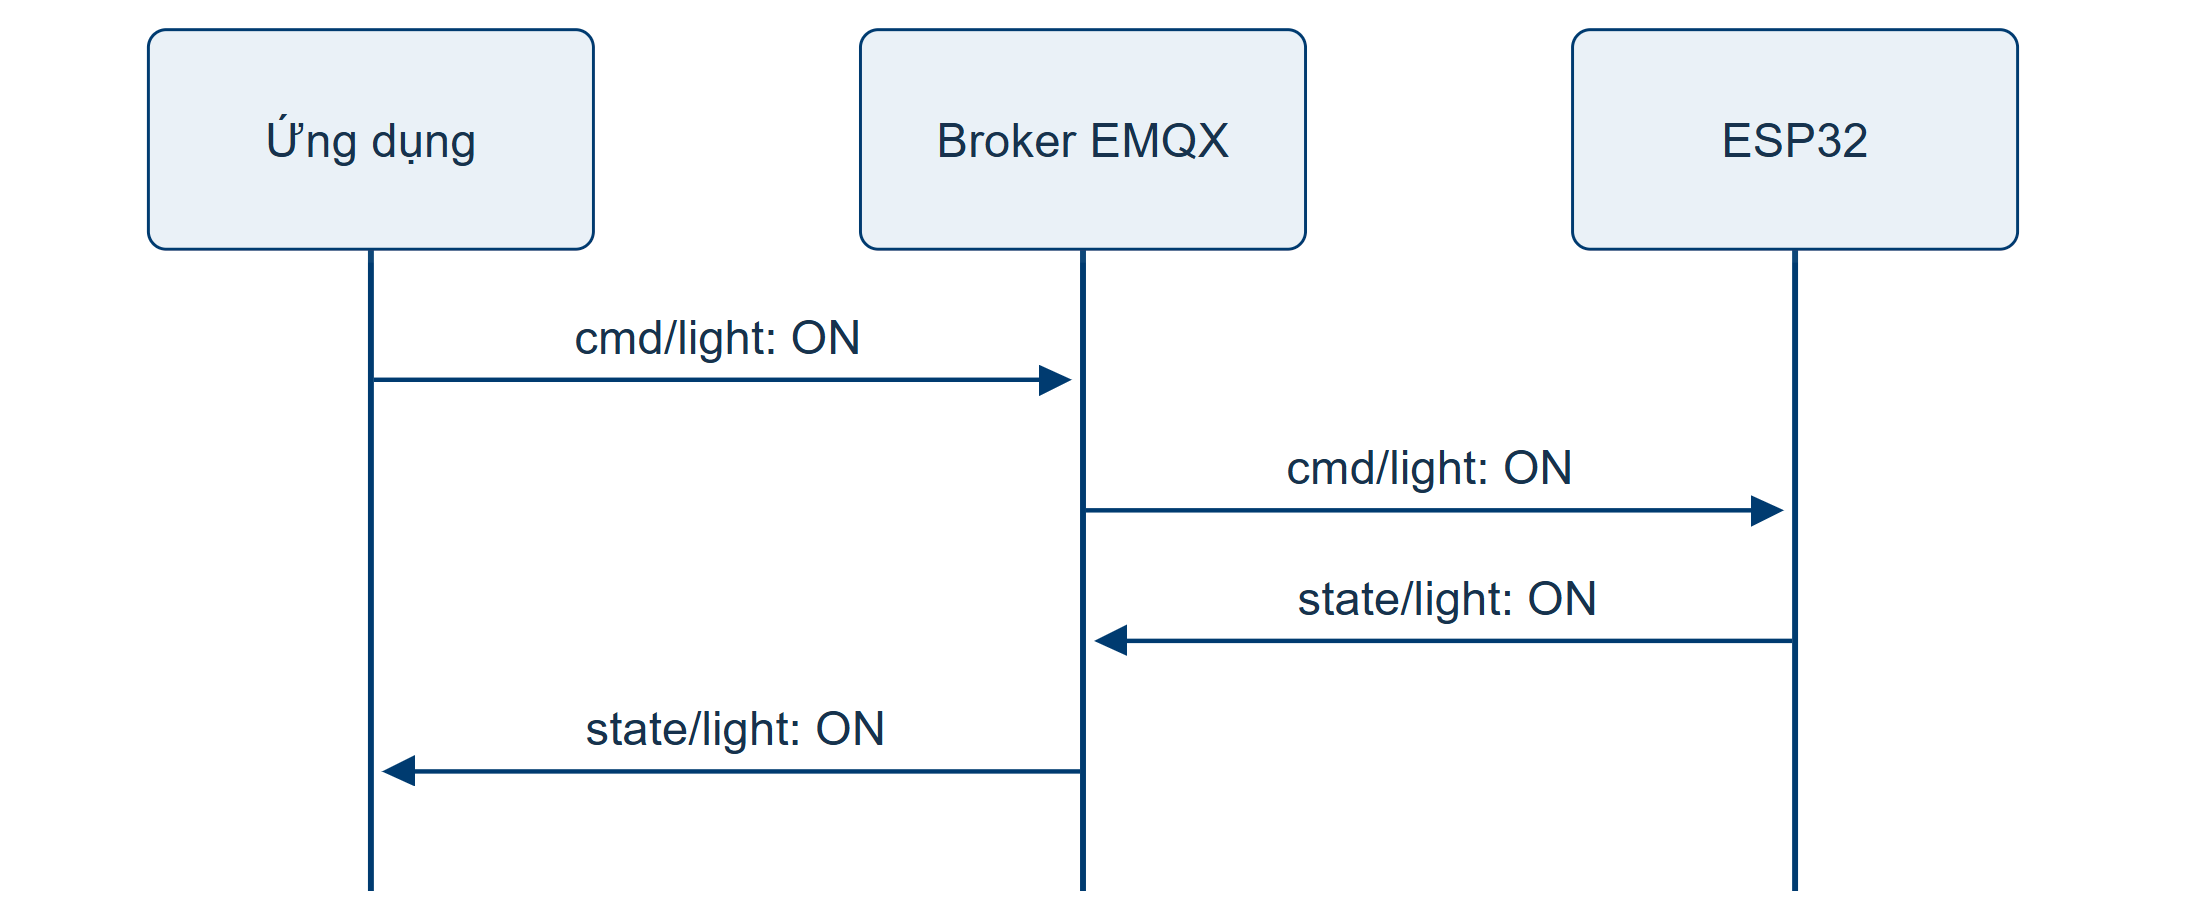
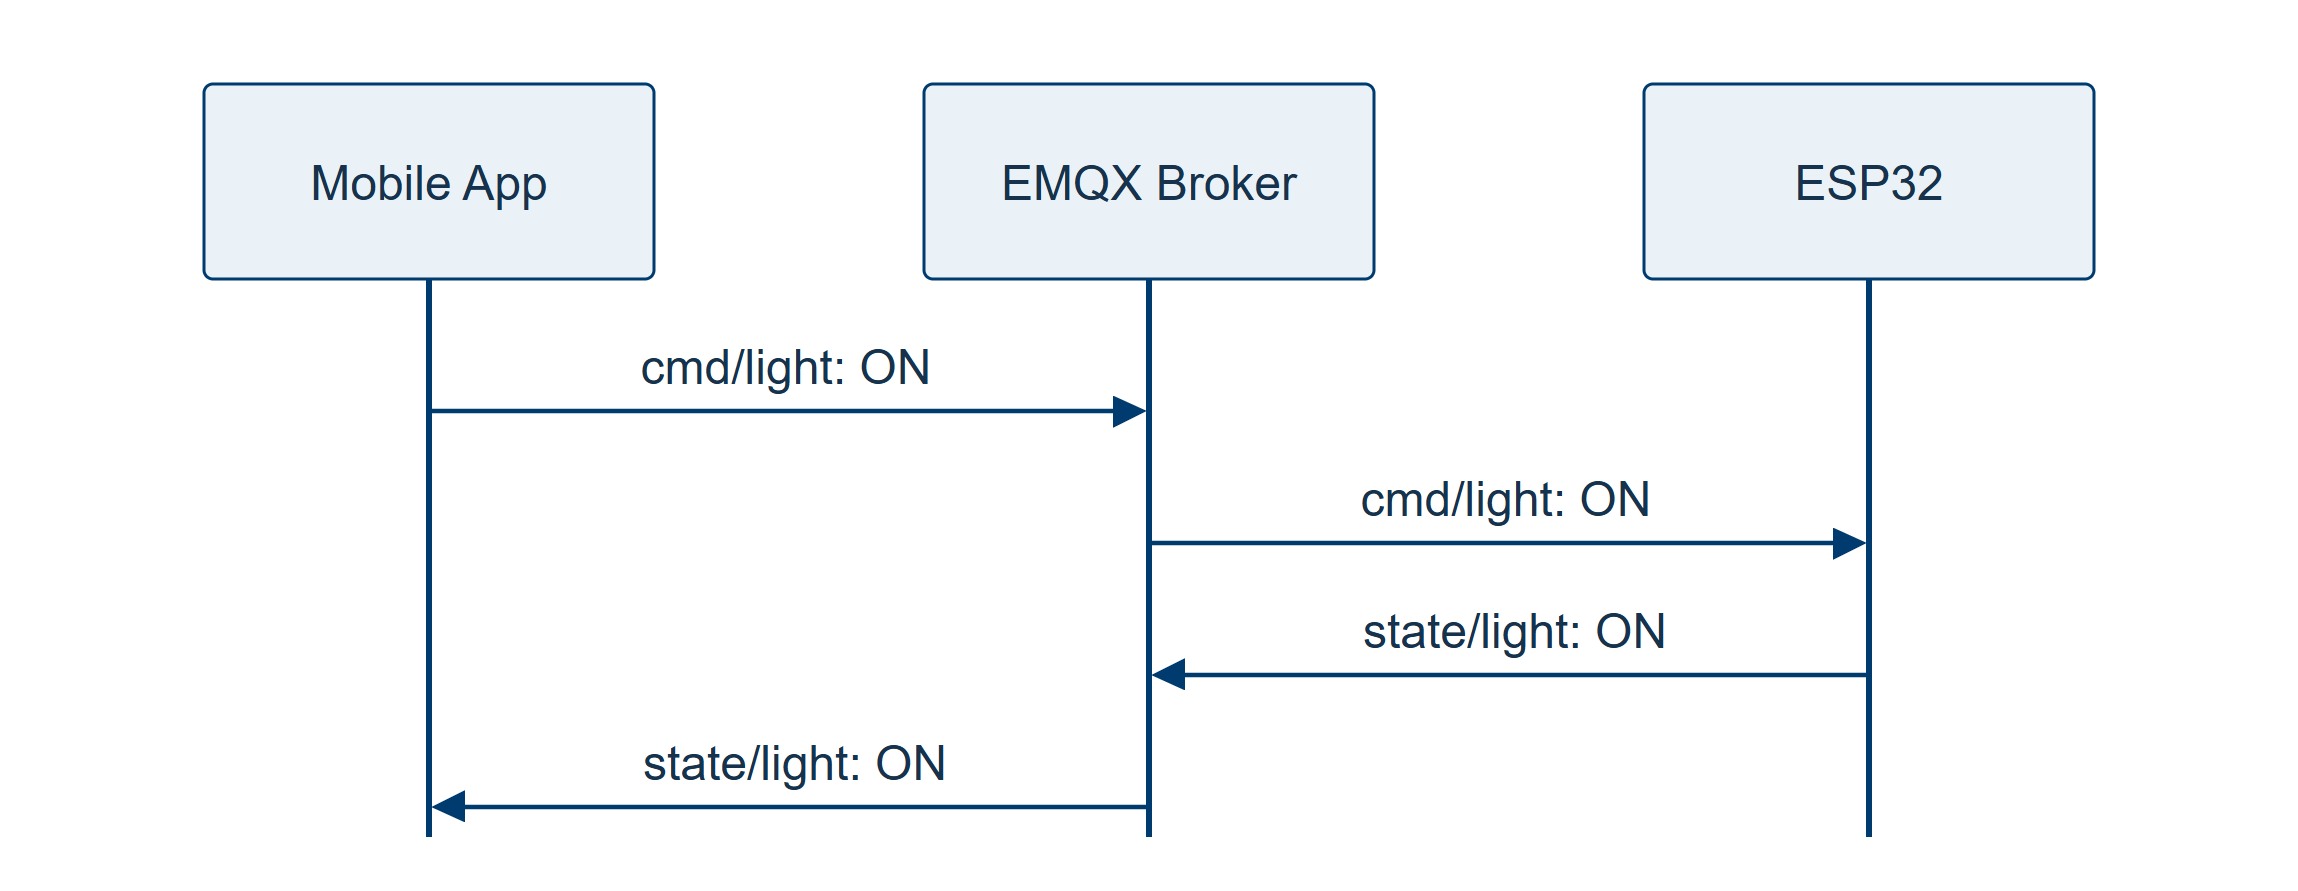
Update English report and diagrams

diff --git a/main.tex b/main.tex
@@ -1,11 +1,13 @@
 \documentclass[aspectratio=169,11pt]{beamer}
 
-% Biên dịch bằng pdfLaTeX trên Overleaf hoặc TeX Live có gói tiếng Việt.
+% Compile with pdfLaTeX on Overleaf or TeX Live.
 \usepackage[utf8]{inputenc}
-\usepackage[T5]{fontenc}
-\usepackage[vietnamese]{babel}
+\usepackage[T1]{fontenc}
+\usepackage[english]{babel}
 \usepackage{lmodern}
 \usepackage{graphicx}
+% Find images next to main.tex (Overleaf) or in report/ (local project).
+\graphicspath{{./}{report/}}
 
 \definecolor{DeepBlue}{HTML}{003B70}
 \definecolor{AccentRed}{HTML}{C8102E}
@@ -25,7 +27,7 @@
 \setbeamersize{text margin left=9mm,text margin right=9mm}
 \setlength{\parskip}{0.4em}
 
-% Đặt background.png cùng thư mục với main.tex. Nếu chưa có ảnh, dùng nền trắng.
+% Place background.png next to main.tex. Use a white background if it is missing.
 \IfFileExists{background.png}{%
   \usebackgroundtemplate{%
     \includegraphics[width=\paperwidth,height=\paperheight]{background.png}%
@@ -33,171 +35,173 @@
 }{}
 
 \title{ESP32 SMART HOME}
-\subtitle{Giới thiệu hệ thống và demo chương trình}
-\author{Nhóm thực hiện}
+\subtitle{System Overview and Demonstration}
+\author{Project Team}
 \date{}
 
 \begin{document}
 
 \begin{frame}[plain]
   \vfill
-  {\large\color{AccentRed}\bfseries BÁO CÁO DEMO}\par
+  {\large\color{AccentRed}\bfseries PROJECT DEMONSTRATION}\par
   \vspace{0.35cm}
   {\Huge\color{DeepBlue}\bfseries ESP32 SMART HOME}\par
   \vspace{0.25cm}
   {\color{AccentRed}\rule{0.16\textwidth}{2pt}}\par
   \vspace{0.25cm}
-  {\large Giới thiệu hệ thống và demo chương trình}\par
+  {\large System Overview and Demonstration}\par
   \vspace{0.5cm}
-  {\small Nhóm thực hiện}
+  {\small Project Team}
   \vfill
 \end{frame}
 
-\begin{frame}{Nội dung trình bày}
+\begin{frame}{Presentation Outline}
   \vfill
-  {\Large\bfseries\color{AccentRed} 01}\quad {\large\bfseries Giới thiệu và tiến độ hệ thống}\par
+  {\Large\bfseries\color{AccentRed} 01}\quad {\large\bfseries System Overview and Progress}\par
   \vspace{0.7cm}
-  {\Large\bfseries\color{AccentRed} 02}\quad {\large\bfseries Demo phần cứng}\par
+  {\Large\bfseries\color{AccentRed} 02}\quad {\large\bfseries Hardware Demo}\par
   \vspace{0.7cm}
-  {\Large\bfseries\color{AccentRed} 03}\quad {\large\bfseries Demo ứng dụng}
+  {\Large\bfseries\color{AccentRed} 03}\quad {\large\bfseries App Demo}
   \vfill
 \end{frame}
 
-% PHẦN 1: Nội dung giới thiệu và những gì nhóm đã xây dựng.
-\begin{frame}{1. Bài toán và mục tiêu}
+% PART 1: System overview and work completed by the team.
+\begin{frame}{1. Problem and Objectives}
   \begin{columns}[T,onlytextwidth]
     \begin{column}{0.48\textwidth}
-      \textbf{Bài toán}
+      \textbf{Problem}
       \begin{itemize}
-        \item Người dùng cần điều khiển và theo dõi thiết bị trong nhà từ điện thoại.
-        \item Các thiết bị và ứng dụng cần trao đổi dữ liệu qua cùng một mạng.
+        \item Users need to control and monitor home devices from a phone.
+        \item Devices and the app need to exchange data over a shared network.
       \end{itemize}
     \end{column}
     \begin{column}{0.48\textwidth}
-      \textbf{Mục tiêu của nhóm}
+      \textbf{Team Objectives}
       \begin{itemize}
-        \item Xây dựng hệ thống điều khiển dựa trên ESP32.
-        \item Kết nối ứng dụng, bộ điều khiển và cảm biến qua MQTT.
-        \item Kiểm tra từng phân hệ trước khi tích hợp toàn bộ.
+        \item Build a control system using ESP32.
+        \item Use MQTT to exchange commands, device states and sensor events.
+        \item Test each subsystem before full integration.
       \end{itemize}
     \end{column}
   \end{columns}
 \end{frame}
 
-\begin{frame}{1. Kiến trúc tổng quan}
+\begin{frame}{1. System Architecture}
   \centering
   \vfill
-  \includegraphics[width=0.96\textwidth,height=0.60\textheight,keepaspectratio]{report/architecture.png}
+  % Overall system: app, message queue, ESP32, sensors and actuators.
+  % Editable source: report/architecture.mmd.
+  \includegraphics[width=\textwidth,height=0.72\textheight,keepaspectratio]{architecture.png}
   \vfill
-  {\small Kiến trúc tích hợp mục tiêu của hệ thống.}
+  {\small Target system architecture with bidirectional MQTT communication.}
 \end{frame}
 
-\begin{frame}{1. Các phân hệ của dự án}
+\begin{frame}{1. System Components}
   \begin{itemize}
     \setlength{\itemsep}{0.65em}
-    \item \textbf{Firmware:} kết nối Wi-Fi, MQTT và xử lý lệnh điều khiển.
-    \item \textbf{Thiết bị:} điều khiển đèn và cửa, đọc cảm biến PIR và RFID.
-    \item \textbf{Broker:} EMQX chuyển tiếp thông điệp, có cấu hình Docker Compose.
-    \item \textbf{Giao diện:} prototype dashboard và bộ khung ứng dụng di động.
-    \item \textbf{Tích hợp:} quy ước topic, payload và kiểm tra giao tiếp.
+    \item \textbf{Firmware:} Wi-Fi and MQTT connections, command handling.
+    \item \textbf{Hardware:} light and door control, PIR sensing and RFID reading.
+    \item \textbf{Broker:} EMQX message routing with Docker Compose configuration.
+    \item \textbf{User Interface:} dashboard prototype and mobile app skeleton.
+    \item \textbf{Integration:} shared topics, payloads and communication tests.
   \end{itemize}
   \vspace{0.3cm}
-  {\small Mã thiết bị và giao diện tiếp tục phát triển trên các nhánh riêng.}
+  {\small Hardware and interface development continues on separate branches.}
 \end{frame}
 
-\begin{frame}{1. Chức năng trên nhánh tích hợp phần cứng}
+\begin{frame}{1. Hardware Integration Branch Features}
   \begin{columns}[T,onlytextwidth]
     \begin{column}{0.47\textwidth}
-      {\large\bfseries\color{DeepBlue} Đèn và chuyển động}\par
+      {\large\bfseries\color{DeepBlue} Light and Motion}\par
       \vspace{0.3cm}
-      Nhận lệnh bật/tắt qua MQTT. Tín hiệu PIR cũng có thể kích hoạt đèn.
+      Receives ON/OFF commands over MQTT. PIR motion detection can also trigger the light.
     \end{column}
     \begin{column}{0.47\textwidth}
-      {\large\bfseries\color{DeepBlue} Cửa và thẻ RFID}\par
+      {\large\bfseries\color{DeepBlue} Door and RFID}\par
       \vspace{0.3cm}
-      Servo mở/đóng cửa. Thẻ hợp lệ trong danh sách cho phép gọi mở cửa.
+      A servo opens and closes the door. A card on the allowlist triggers a door-open request.
     \end{column}
   \end{columns}
   \vspace{0.7cm}
-  \textcolor{AccentRed}{\bfseries Phản hồi}\quad Trạng thái thiết bị và sự kiện truy cập gửi qua MQTT.
+  \textcolor{AccentRed}{\bfseries Feedback}\quad Device states and access events are published over MQTT.
   \vspace{0.45cm}
 
-  {\small Đây là chức năng trong mã nhánh tích hợp; cần kiểm tra trên thiết bị thật.}
+  {\small These features exist in the integration branch code and need testing on real hardware.}
 \end{frame}
 
-\begin{frame}{1. Trao đổi dữ liệu qua MQTT}
+\begin{frame}{1. MQTT Communication}
   \centering
-  {\large\bfseries Ví dụ: bật đèn và nhận trạng thái}\par
+  {\large\bfseries Example: Turn On the Light and Receive Its State}\par
   \vfill
-  \includegraphics[width=0.88\textwidth,height=0.57\textheight,keepaspectratio]{report/mqtt-flow.png}
+  \includegraphics[width=0.88\textwidth,height=0.57\textheight,keepaspectratio]{mqtt-flow.png}
   \vfill
-  {\small Tên đầy đủ bắt đầu bằng \texttt{smarthome/}. Luồng phản hồi cần kiểm tra khi tích hợp.}
+  {\small All topics start with \texttt{smarthome/}. State feedback needs integration testing.}
 \end{frame}
 
-\begin{frame}{1. Những phần đã thực hiện}
+\begin{frame}{1. Work Completed}
   \begin{columns}[T,onlytextwidth]
     \begin{column}{0.52\textwidth}
-      {\large\bfseries\color{DeepBlue} Đã xây dựng}\par
+      {\large\bfseries\color{DeepBlue} Implemented}\par
       \begin{itemize}
-        \item Firmware, broker và quy ước MQTT.
-        \item Mã tích hợp đèn, cửa, PIR và RFID trên nhánh phần cứng.
-        \item Prototype giao diện web.
+        \item Firmware, broker and MQTT contract.
+        \item Light, door, PIR and RFID code on the hardware integration branch.
+        \item Web interface prototype.
       \end{itemize}
     \end{column}
     \begin{column}{0.43\textwidth}
-      {\large\bfseries\color{DeepBlue} Đã kiểm tra}\par
+      {\large\bfseries\color{DeepBlue} Tested}\par
       \vspace{0.25cm}
       {\Huge\bfseries\color{AccentRed} 4/4}\par
-      Broker cục bộ chuyển tiếp đúng bốn lệnh đèn và cửa.
+      The local broker correctly forwards all four light and door commands.
 
-      {\small ESP32 nhận lệnh: đã ghi nhận theo xác nhận của nhóm.}
+      {\small ESP32 command reception is recorded based on the team's confirmation.}
     \end{column}
   \end{columns}
   \vspace{0.4cm}
-  {\small Kết quả broker chưa chứng minh toàn bộ hệ thống hoạt động.}
+  {\small Broker test results do not confirm full system operation.}
 \end{frame}
 
-\begin{frame}{1. Công việc tích hợp tiếp theo}
+\begin{frame}{1. Next Integration Tasks}
   \begin{itemize}
     \setlength{\itemsep}{0.7em}
-    \item Hoàn thiện ghép nhánh phần cứng và giao diện vào hệ thống chung.
-    \item Thống nhất topic và payload giữa ứng dụng với ESP32.
-    \item Kiểm tra luồng lệnh và trạng thái trên thiết bị thật.
-    \item Kiểm tra kết nối lại và hoàn thiện bằng chứng nghiệm thu.
+    \item Merge the hardware and interface branches into the shared system.
+    \item Align MQTT topics and payloads between the app and ESP32.
+    \item Verify command and state flows on real hardware.
+    \item Test reconnection and collect acceptance test evidence.
   \end{itemize}
   \vspace{0.5cm}
-  {\small Theo tài liệu hiện có, chưa có bằng chứng kiểm thử tích hợp toàn hệ thống.}
+  {\small Current documentation does not yet include full system integration test evidence.}
 \end{frame}
 
-% PHẦN 2: Tự thêm ảnh, video và nội dung demo phần cứng tại đây.
-\begin{frame}{2. Demo phần cứng}
+% PART 2: Add hardware demo photos, videos and content here.
+\begin{frame}{2. Hardware Demo}
   \centering
   \vfill
-  {\Large\color{DeepBlue}\bfseries Demo hardware}
+  {\Large\color{DeepBlue}\bfseries Hardware Demo}
 
   \vspace{0.45cm}
-  {\normalsize Chèn ảnh, video hoặc nội dung demo tại đây.}
+  {\normalsize Add demo photos, videos or content here.}
   \vfill
 \end{frame}
 
-% PHẦN 3: Tự thêm ảnh, video và nội dung demo ứng dụng tại đây.
-\begin{frame}{3. Demo ứng dụng}
+% PART 3: Add app demo screenshots, videos and content here.
+\begin{frame}{3. App Demo}
   \centering
   \vfill
-  {\Large\color{DeepBlue}\bfseries Demo app}
+  {\Large\color{DeepBlue}\bfseries App Demo}
 
   \vspace{0.45cm}
-  {\normalsize Chèn ảnh, video hoặc nội dung demo tại đây.}
+  {\normalsize Add demo screenshots, videos or content here.}
   \vfill
 \end{frame}
 
 \begin{frame}[plain]
   \centering
   \vfill
-  {\Huge\bfseries\color{DeepBlue} Cảm ơn thầy cô và các bạn!}
+  {\Huge\bfseries\color{DeepBlue} Thank You!}
 
   \vspace{0.5cm}
-  {\large Câu hỏi và trao đổi}
+  {\large Questions and Discussion}
   \vfill
 \end{frame}
 
